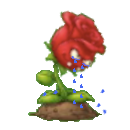
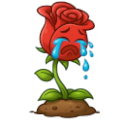
Agregada la nuez y modificadas imágenes de las plantas

diff --git a/Ramos - Veron - Garvich - Lamaruggine -tp-p1/src/juego/Jardin.java b/Ramos - Veron - Garvich - Lamaruggine -tp-p1/src/juego/Jardin.java
@@ -10,13 +10,16 @@ public class Jardin {
 	private Estado estado;
 	private Reloj reloj;
 	private Rosa[] rosa;
+	private Nuez [] nuez;
 	private BolaDeFuego[] bFuego;
 	private Menu menu;
 	private Cripta cripta;
 	
 	int abono = 100;
 	boolean aRosa = false;
+	boolean aNuez = false;
 	int conteoRosa = 0;
+	int conteoNuez = 0;
 	int conteoBFuego = 0;
 	int ticksFuera;
 	int cuantosTicks;
@@ -30,8 +33,13 @@ public class Jardin {
 		this.menu = menu;
 		this.cripta = cripta;
 		
+		this.nuez = new Nuez[50];
 		this.rosa = new Rosa[50];
 		this.bFuego = new BolaDeFuego[100];
+		
+		for(int i = 0; i < nuez.length; i++) {
+			nuez[i] = new Nuez(this.entorno, this.estado, this.reloj);
+		}
 		
 		for(int i = 0; i < rosa.length; i++) {
 			rosa[i] = new Rosa(this.entorno, this.estado, this.reloj);
@@ -152,7 +160,19 @@ public class Jardin {
 	
 	public void dibujarPlantas() {
 		if(estado.esDerrota()) {
-			for(int i = 0; i < rosa.length; i++) {		//dibujar zombies base
+			for(int i = 0; i < nuez.length; i++) {		
+				if (nuez[i] == null) continue;
+		    	if(nuez[i].vivo) {
+		    		if (reloj.ciclos(300, 600)) {
+		    			entorno.dibujarImagen(Herramientas.cargarImagen("personajes/nuezD1.png"), nuez[i].posX, nuez[i].posY, 0);
+		    		}
+		    		else {
+		    			entorno.dibujarImagen(Herramientas.cargarImagen("personajes/nuezD2.png"), nuez[i].posX, nuez[i].posY, 0.1);
+		    			}			 
+		    		}
+				}
+			
+			for(int i = 0; i < rosa.length; i++) {		
 				Rosa r = rosa[i];
 				if (r == null) continue;
 		    	if(r.vivo) {
@@ -181,11 +201,24 @@ public class Jardin {
 	    				}
 	    			}
 	    		}
-	    		if (reloj.ciclos(200, 400)) {
+	    		if (reloj.ciclos(300, 600)) {
 	    			entorno.dibujarImagen(Herramientas.cargarImagen("personajes/roseBlade1.png"), rosa[i].posX, rosa[i].posY, 0);
 	    		}
 	    		else {
 	    			entorno.dibujarImagen(Herramientas.cargarImagen("personajes/roseBlade2.png"), rosa[i].posX, rosa[i].posY, 0);
+	    			}			 
+	    		}
+			}
+		for(int i = 0; i < nuez.length; i++) {		//dibujar zombies base
+
+			if (nuez[i] == null)
+				continue;
+	    	if(nuez[i].vivo) {
+	    		if (reloj.ciclos(200, 400)) {
+	    			entorno.dibujarImagen(Herramientas.cargarImagen("personajes/nuez1.png"), nuez[i].posX, nuez[i].posY, 0);
+	    		}
+	    		else {
+	    			entorno.dibujarImagen(Herramientas.cargarImagen("personajes/nuez1.png"), nuez[i].posX+5, nuez[i].posY-5, 0.1);
 	    			}			 
 	    		}
 			}
@@ -197,7 +230,7 @@ public class Jardin {
 			BolaDeFuego b = bFuego[i];
 			if (b == null) continue;
 			b.desplazar();
-			entorno.dibujarImagen(Herramientas.cargarImagen("personajes/bolaDeFuego.png"), b.posX, b.posY, 0);
+			entorno.dibujarImagen(Herramientas.cargarImagen("personajes/bolaDeFuego.png"), b.posX, b.posY-35, 0);
 			if (cripta.hayZombieEnPosicion(b.posX, b.posY)) {
 				cripta.herirZombieEnPosicion(b.posX, b.posY, b.damage);
 				bFuego[i] = null;
@@ -220,14 +253,26 @@ public class Jardin {
 		
 		if(40 < mX && mX < 165 && 20 < mY && mY < 145 && abono >= 60 && entorno.sePresionoBoton(entorno.BOTON_IZQUIERDO)) {
 			aRosa = true;
+			aNuez = false;
+			menu.aNuez = false;
 			
 		}
 		
-		if(aRosa == true) {
+		if(250 < mX && mX < 350 && 20 < mY && mY < 145 && abono >= 40 && entorno.sePresionoBoton(entorno.BOTON_IZQUIERDO)) {
+			aNuez = true;
+			aRosa = false;
+			menu.aRose = false;
+			
+		}
+		
+		if(aNuez) {
+			menu.aNuez = true;
+		}
+		
+		if(aRosa) {
 			menu.aRose = true;
 		}
 		
-		if(aRosa == true && entorno.sePresionoBoton(entorno.BOTON_IZQUIERDO) && mY >= 170) {
 			if(120 < mX && mX < 240) {
 				posibleX = 180;
 			}
@@ -282,21 +327,35 @@ public class Jardin {
 			}
 			
 			for(int i = 0; i < rosa.length; i++){
-				if(rosa[i].posX == posibleX && rosa[i].posY == posibleY) {
+				if((rosa[i].posX == posibleX && rosa[i].posY == posibleY) || (nuez[i].posX == posibleX && nuez[i].posY == posibleY)) {
 					return;
 				}
 			}
+			
+			if(aRosa == true && entorno.sePresionoBoton(entorno.BOTON_IZQUIERDO) && mY >= 170) {
 			rosa[conteoRosa].posX = posibleX;
 			rosa[conteoRosa].posY = posibleY;
 			rosa[conteoRosa].vivo = true;
 			conteoRosa += 1;
 			abono -= 60;
+
 			if(abono < 60) {
 				aRosa = false;
 				menu.aRose = false;
-			}
+			}}
 			
-		}
+			if(aNuez == true && entorno.sePresionoBoton(entorno.BOTON_IZQUIERDO) && mY >= 170) {
+				nuez[conteoNuez].posX = posibleX;
+				nuez[conteoNuez].posY = posibleY;
+				nuez[conteoNuez].vivo = true;
+				conteoNuez += 1;
+				abono -= 40;
+
+				if(abono < 40) {
+					aNuez = false;
+					menu.aNuez = false;
+				}}
+			
 		
 	}
 	

diff --git a/Ramos - Veron - Garvich - Lamaruggine -tp-p1/src/juego/Menu.java b/Ramos - Veron - Garvich - Lamaruggine -tp-p1/src/juego/Menu.java
@@ -14,6 +14,7 @@ public class Menu {				//se encarga de las funcionalidades del menú y del dibuj
 	boolean cortar = false;
 	
 	boolean aRose = false;
+	boolean aNuez = false;
 	
 	public Menu(Entorno entorno, Estado estado, Reloj reloj) {
 		this.entorno = entorno;
@@ -47,6 +48,8 @@ public class Menu {				//se encarga de las funcionalidades del menú y del dibuj
 			entorno.dibujarImagen(Herramientas.cargarImagen("mapa/pastoDerrota.png"), 700, 400, 0);
 			
 			entorno.dibujarImagen(Herramientas.cargarImagen("personajes/roseBladeD1.png"), 102, 82, 0);
+			
+			entorno.dibujarImagen(Herramientas.cargarImagen("personajes/nuezD1.png"), 300, 82, 0);
 		}
 		if(estado.esPausa()) {
 			if(!sobre(700, 1369, 580, 760)) {
@@ -86,12 +89,17 @@ public class Menu {				//se encarga de las funcionalidades del menú y del dibuj
 			//reloj.mostrarTiempo(50, 650, 50);
 			entorno.dibujarImagen(Herramientas.cargarImagen("mapa/pasto1.png"), 700, 400, 0);
 			entorno.dibujarImagen(Herramientas.cargarImagen("mapa/MenuSuperior9.png"), 700, 90, 0, 1);
+			
+			if(!aNuez)
+				entorno.dibujarImagen(Herramientas.cargarImagen("personajes/nuezBoton1.png"), 300, 82, 0);
+			else
+				entorno.dibujarImagen(Herramientas.cargarImagen("personajes/nuezBoton2.png"), 300, 82, 0);
 
 			if(!aRose)
-				entorno.dibujarImagen(Herramientas.cargarImagen("personajes/botonRosa.png"), 102, 82, 0, 1.2);
+				entorno.dibujarImagen(Herramientas.cargarImagen("personajes/roseBlade1.png"), 102, 82, 0);
 			
 			else
-				entorno.dibujarImagen(Herramientas.cargarImagen("personajes/botonRosa2.png"), 102, 82, 0);
+				entorno.dibujarImagen(Herramientas.cargarImagen("personajes/roseBlade2.png"), 102, 82, 0);
 			
 		}
 	}

diff --git a/Ramos - Veron - Garvich - Lamaruggine -tp-p1/src/juego/Nuez.java b/Ramos - Veron - Garvich - Lamaruggine -tp-p1/src/juego/Nuez.java
@@ -1,0 +1,23 @@
+package juego;
+
+import entorno.Entorno;
+
+public class Nuez {
+	private Entorno entorno;
+	private Estado estado;
+	private Reloj reloj;
+	
+	boolean vivo = false;
+	int posX;
+	int posY;
+	int vida = 500;
+	int abonoN = 40;
+	
+	public Nuez(Entorno entorno, Estado estado, Reloj reloj) {
+		this.entorno = entorno;
+		this.estado = estado;
+		this.reloj = reloj;
+	}
+	
+
+}
